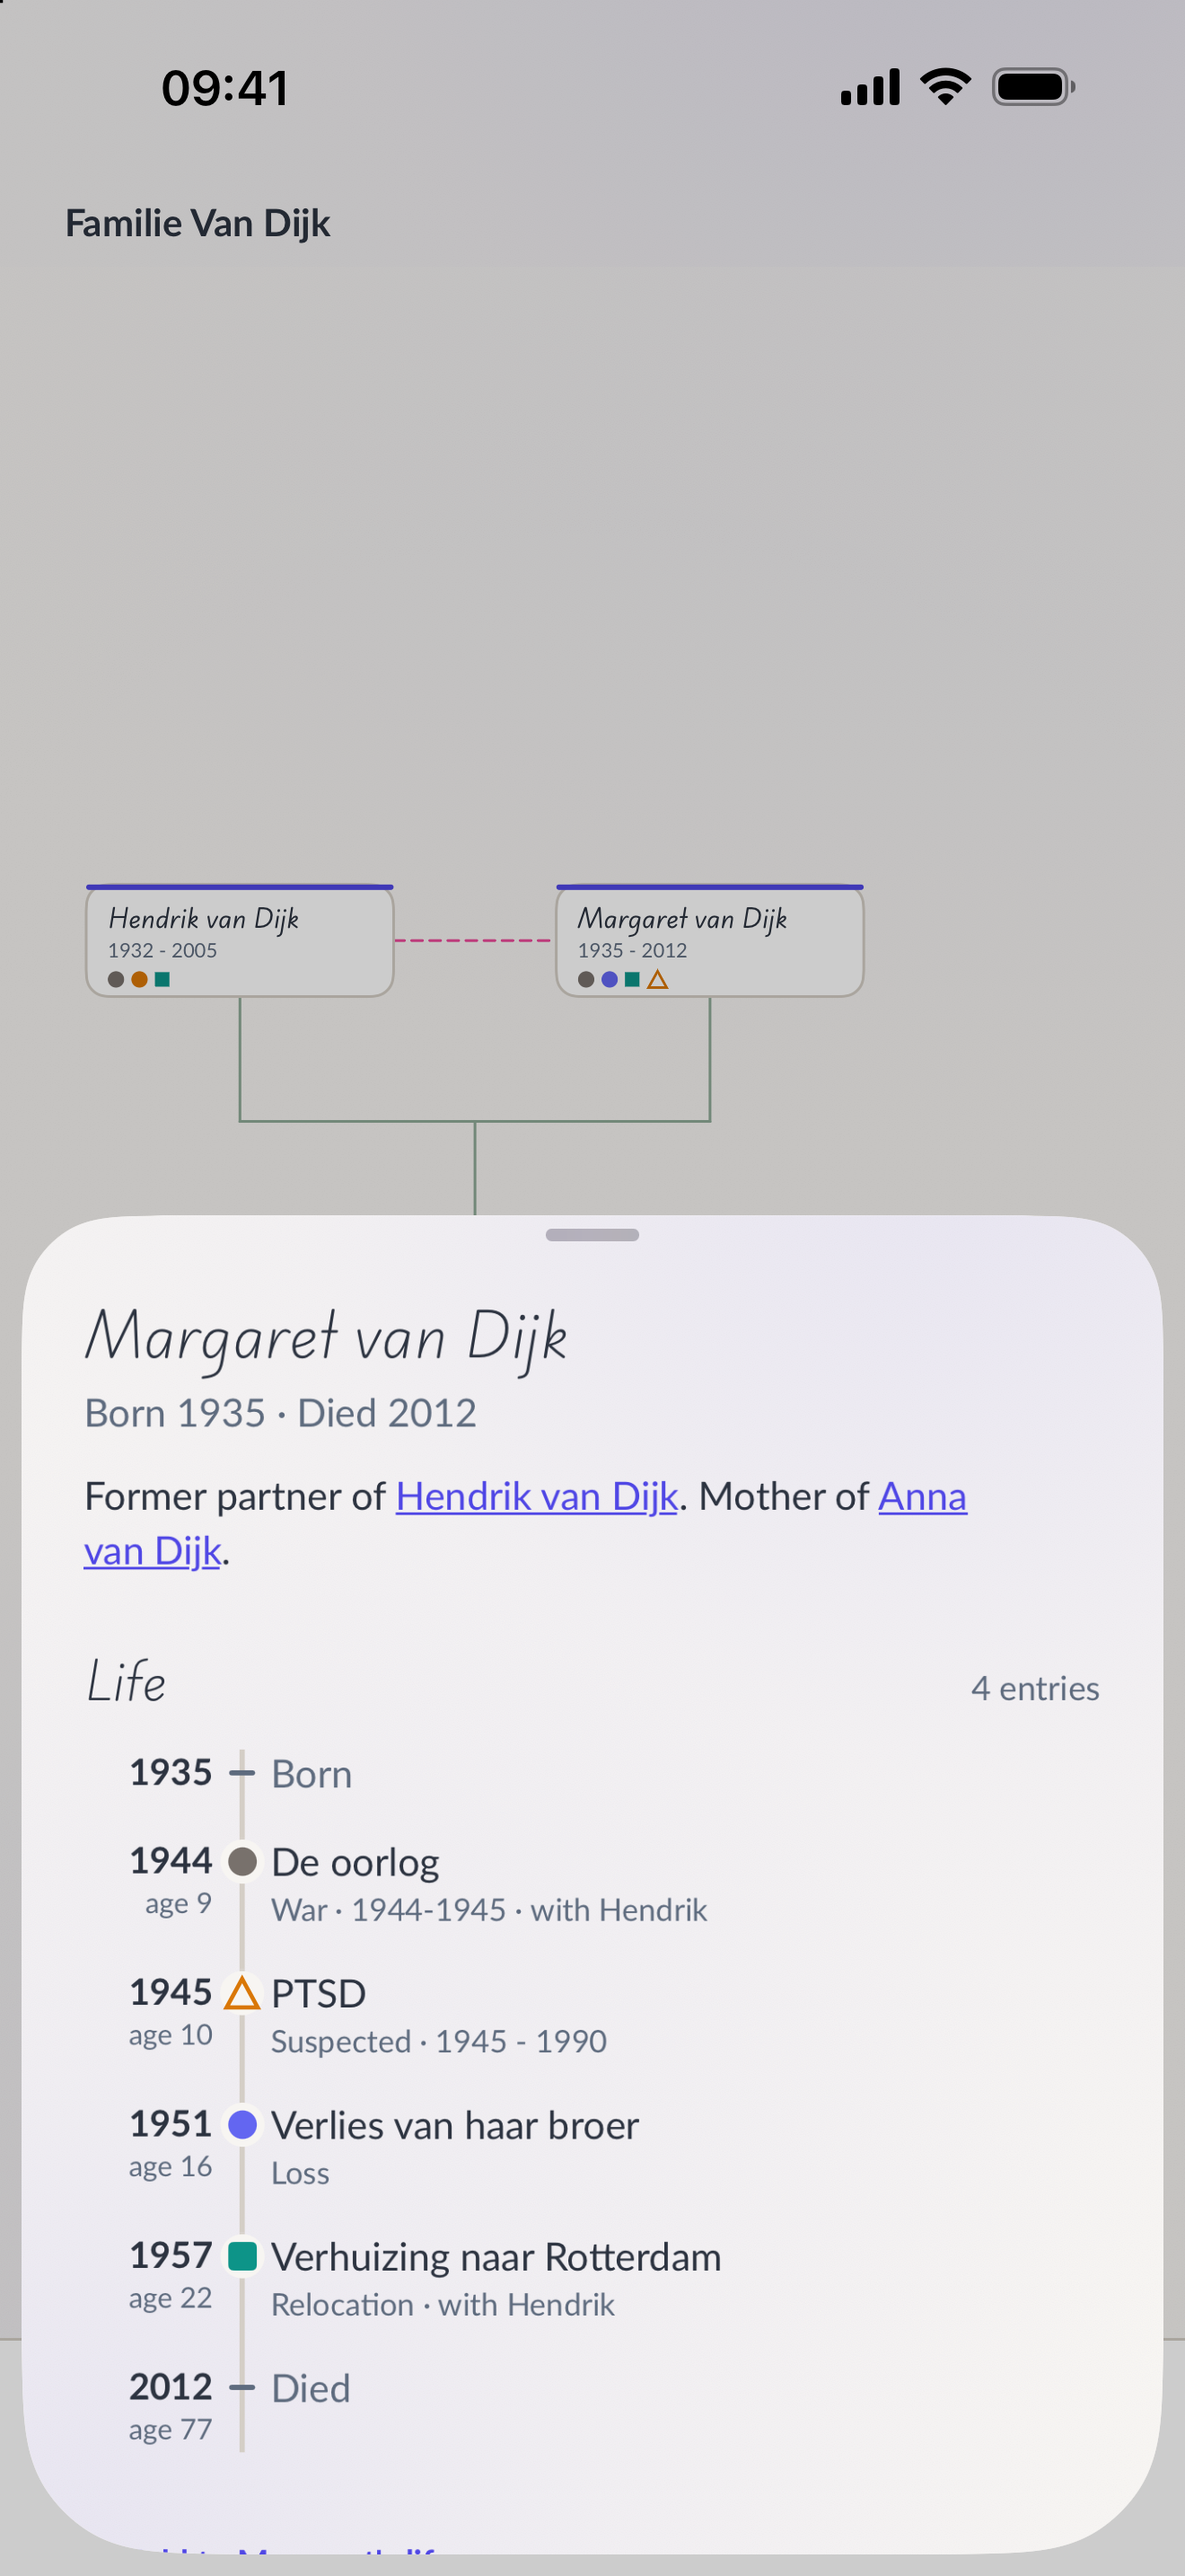
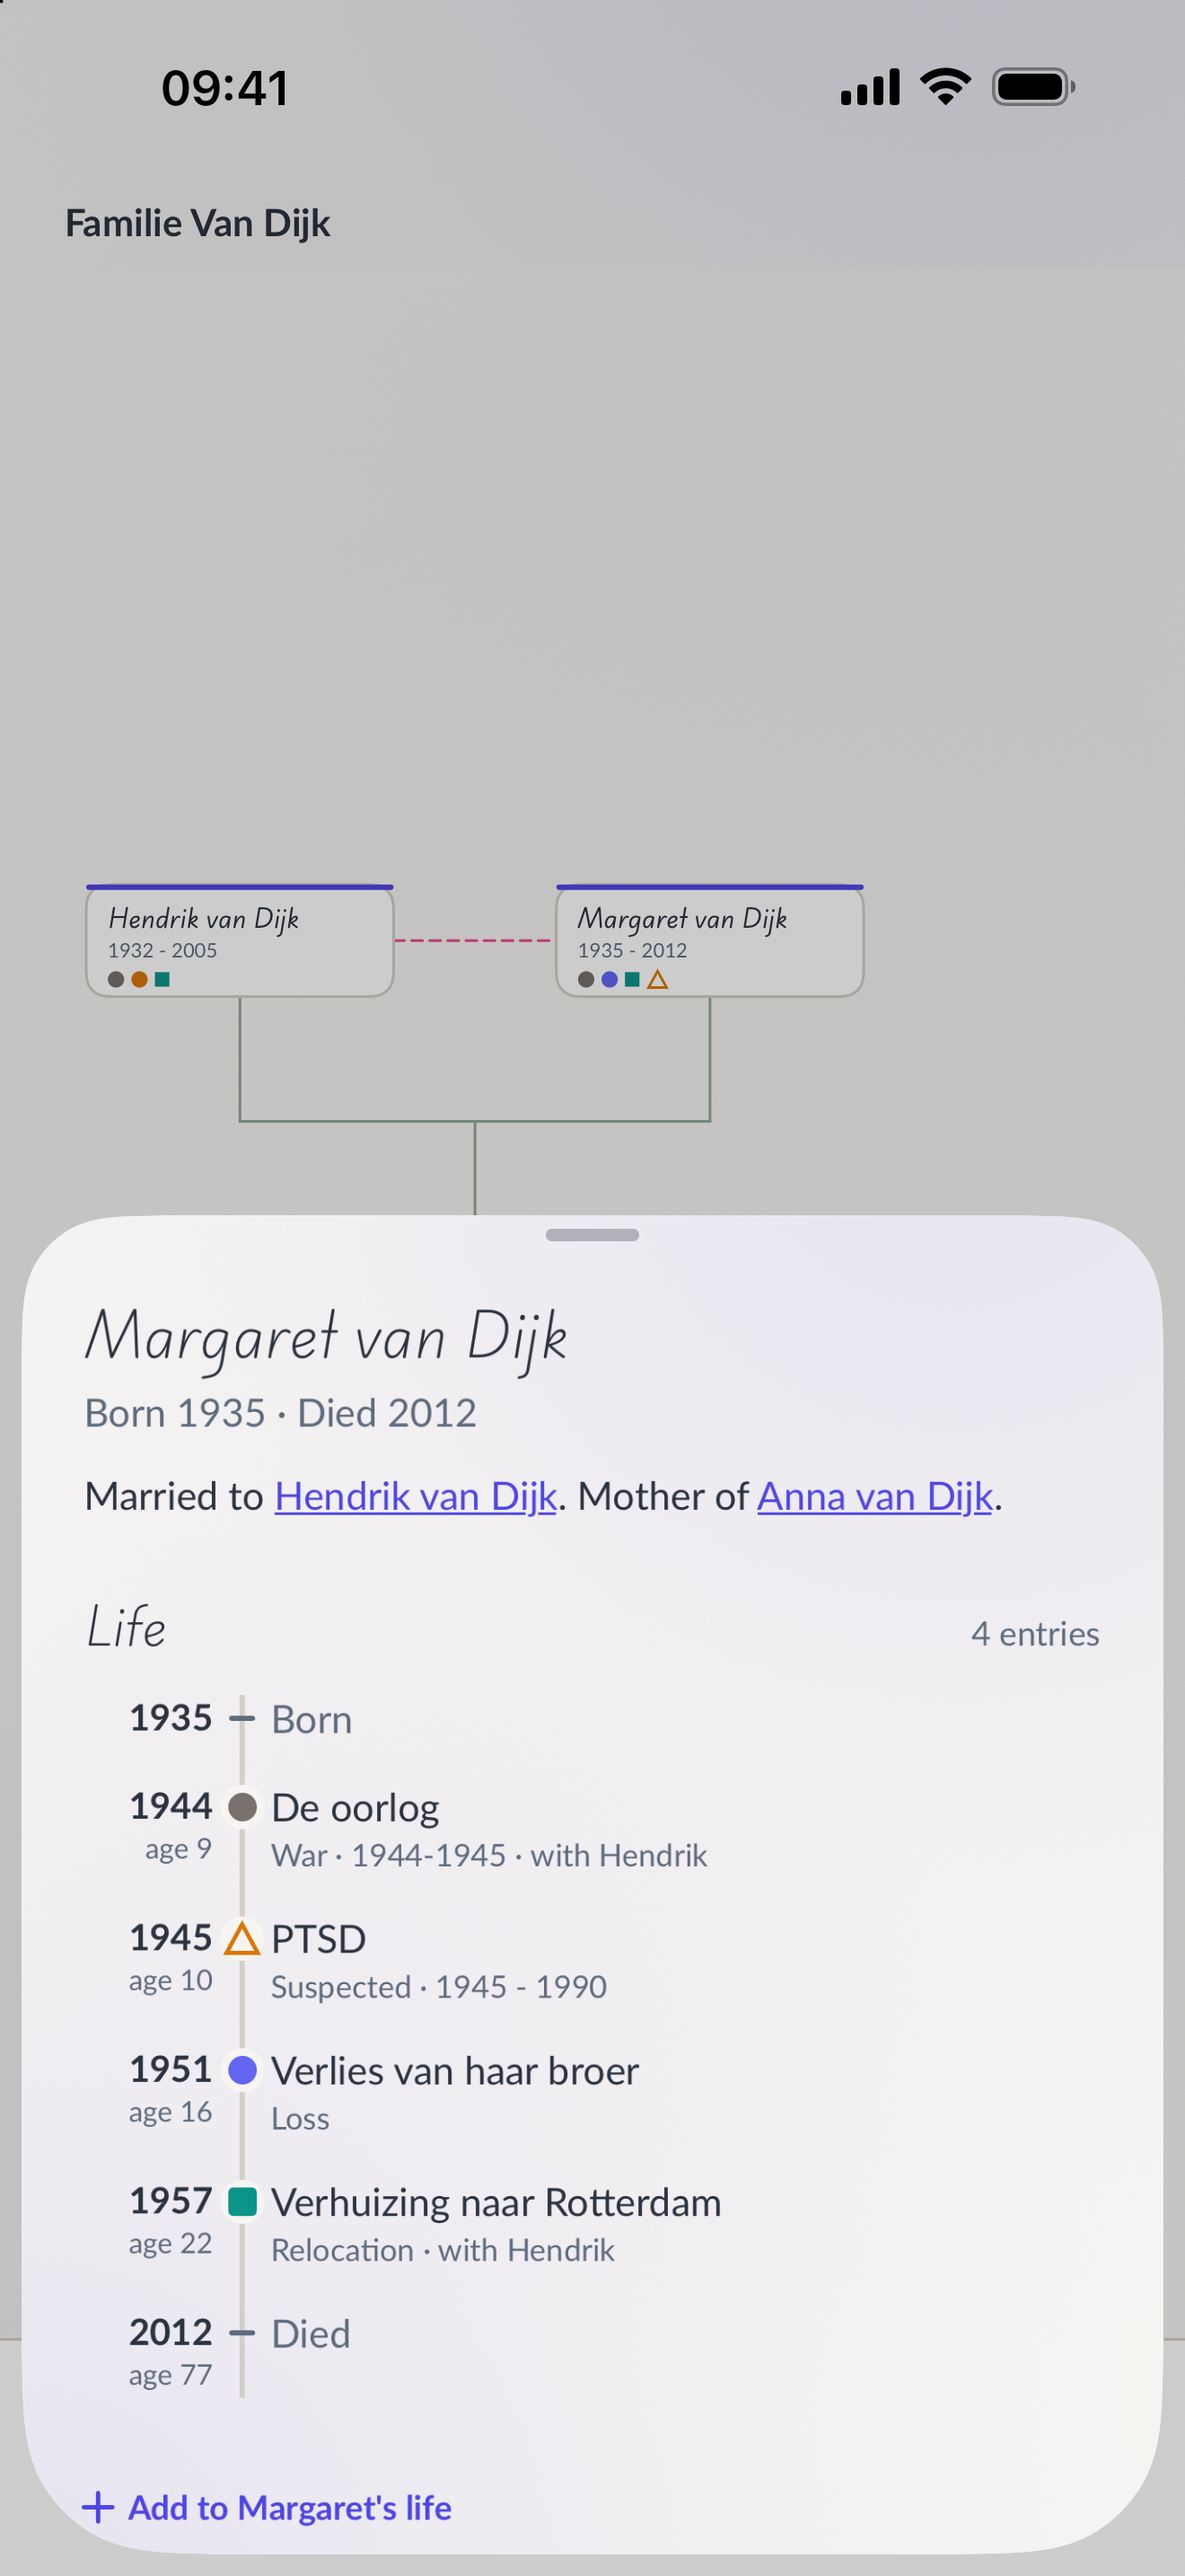
fix: a marriage death ended is not a former partnership
The person page's glance named anyone whose latest partner period had an end
year a former partner, so a widow read as "Former partner of" her late
husband. A period that ended in or after the year one of the two died now
keeps its status (married to, partner of); only a separation, a divorce, or
an end before either death reads as former. Web and iOS alike, and the App
Store person-page screenshot is recaptured with the corrected sentence.

Claude-Session: https://claude.ai/code/session_01SmPpZwaReEVVWJgvhqsMvA

Changed region(s): [[0.0621, 0.5586, 0.8386, 0.931], [0.1242, 0.962, 0.3727, 0.993], [0.8697, 0.6206, 0.9008, 0.6827]]

diff --git a/mobile/ios/Sources/Lifeline.swift b/mobile/ios/Sources/Lifeline.swift
@@ -141,21 +141,30 @@ enum Glance {
     private static let parentTypes: Set<String> = ["biological_parent", "co_parent", "adoptive_parent"]
     private static let siblingTypes: Set<String> = ["biological_sibling", "step_sibling", "half_sibling"]
 
-    private static func partnerRole(_ edge: TreeEdge) -> GlanceRole {
+    private static func partnerRole(_ edge: TreeEdge, deathYearOf: (String) -> Int?) -> GlanceRole {
         guard let latest = edge.periods.last else { return .partnerOf }
-        if latest.end != nil || latest.status == "separated" || latest.status == "divorced" {
+        if latest.status == "separated" || latest.status == "divorced" { return .formerPartnerOf }
+        if let end = latest.end, !endedByDeath(edge, endYear: end, deathYearOf: deathYearOf) {
             return .formerPartnerOf
         }
         return latest.status == "married" ? .marriedTo : .partnerOf
     }
 
+    /// A period that ended when one of the partners died is not a separation:
+    /// a marriage death ended still reads "married to".
+    private static func endedByDeath(_ edge: TreeEdge, endYear: Int, deathYearOf: (String) -> Int?) -> Bool {
+        [edge.sourceId, edge.targetId].contains { id in
+            deathYearOf(id).map { $0 <= endYear } ?? false
+        }
+    }
+
     /// The role the other person plays, phrased from `personId`'s side.
-    private static func role(_ edge: TreeEdge, for personId: String) -> GlanceRole {
+    private static func role(_ edge: TreeEdge, for personId: String, deathYearOf: (String) -> Int?) -> GlanceRole {
         let isSource = edge.sourceId == personId
         if parentTypes.contains(edge.type) { return isSource ? .parentOf : .childOf }
         switch edge.type {
         case "step_parent": return isSource ? .stepParentOf : .stepChildOf
-        case "partner": return partnerRole(edge)
+        case "partner": return partnerRole(edge, deathYearOf: deathYearOf)
         case "half_sibling": return .halfSiblingOf
         case "step_sibling": return .stepSiblingOf
         case "friend": return .friendOf
@@ -184,13 +193,16 @@ enum Glance {
     }
 
     /// A person's relationships and inferred siblings grouped into glance roles, in reading order.
-    static func groups(for personId: String, edges: [TreeEdge]) -> [GlanceGroup] {
+    /// `deathYearOf` tells a partnership death ended from one the couple ended.
+    static func groups(
+        for personId: String, edges: [TreeEdge], deathYearOf: (String) -> Int? = { _ in nil }
+    ) -> [GlanceGroup] {
         var byRole: [GlanceRole: [String]] = [:]
         func add(_ role: GlanceRole, _ other: String) {
             if !(byRole[role]?.contains(other) ?? false) { byRole[role, default: []].append(other) }
         }
         for edge in edges where edge.sourceId == personId || edge.targetId == personId {
-            add(role(edge, for: personId), edge.sourceId == personId ? edge.targetId : edge.sourceId)
+            add(role(edge, for: personId, deathYearOf: deathYearOf), edge.sourceId == personId ? edge.targetId : edge.sourceId)
         }
         for sibling in inferredSiblings(edges) where sibling.a == personId || sibling.b == personId {
             add(sibling.half ? .halfSiblingOf : .siblingOf, sibling.a == personId ? sibling.b : sibling.a)

diff --git a/frontend/src/lib/personGlance.ts b/frontend/src/lib/personGlance.ts
@@ -45,25 +45,50 @@ const PARENT_TYPES = new Set<RelationshipType>([
   RelationshipType.AdoptiveParent,
 ]);
 
-function partnerRole(rel: DecryptedRelationship): GlanceRole {
+type DeathYearOf = (personId: string) => number | null | undefined;
+
+/**
+ * A period that ended when one of the partners died is not a separation: the
+ * glance keeps "married to" for a marriage death ended, and only says
+ * "former partner" when the couple themselves ended it.
+ */
+function endedByDeath(
+  rel: DecryptedRelationship,
+  endYear: number,
+  deathYearOf: DeathYearOf,
+): boolean {
+  return [rel.source_person_id, rel.target_person_id].some((id) => {
+    const died = deathYearOf(id);
+    return died != null && died <= endYear;
+  });
+}
+
+function partnerRole(rel: DecryptedRelationship, deathYearOf: DeathYearOf): GlanceRole {
   if (rel.periods.length === 0) return "partnerOf";
   const latest = rel.periods.toSorted((a, b) => a.start_year - b.start_year).at(-1);
-  if (!latest || latest.end_year != null) return "formerPartnerOf";
+  if (!latest) return "formerPartnerOf";
   if (latest.status === PartnerStatus.Separated || latest.status === PartnerStatus.Divorced) {
+    return "formerPartnerOf";
+  }
+  if (latest.end_year != null && !endedByDeath(rel, latest.end_year, deathYearOf)) {
     return "formerPartnerOf";
   }
   return latest.status === PartnerStatus.Married ? "marriedTo" : "partnerOf";
 }
 
 /** The role the other person plays, phrased from `personId`'s side. */
-function roleFor(rel: DecryptedRelationship, personId: string): GlanceRole {
+function roleFor(
+  rel: DecryptedRelationship,
+  personId: string,
+  deathYearOf: DeathYearOf,
+): GlanceRole {
   const isSource = rel.source_person_id === personId;
   if (PARENT_TYPES.has(rel.type)) return isSource ? "parentOf" : "childOf";
   switch (rel.type) {
     case RelationshipType.StepParent:
       return isSource ? "stepParentOf" : "stepChildOf";
     case RelationshipType.Partner:
-      return partnerRole(rel);
+      return partnerRole(rel, deathYearOf);
     case RelationshipType.HalfSibling:
       return "halfSiblingOf";
     case RelationshipType.StepSibling:
@@ -75,11 +100,16 @@ function roleFor(rel: DecryptedRelationship, personId: string): GlanceRole {
   }
 }
 
-/** Group a person's relationships and inferred siblings into glance roles, in reading order. */
+/**
+ * Group a person's relationships and inferred siblings into glance roles, in
+ * reading order. `deathYearOf` tells a partnership death ended from one the
+ * couple ended.
+ */
 export function buildGlanceGroups(
   personId: string,
   relationships: DecryptedRelationship[],
   inferredSiblings: InferredSibling[],
+  deathYearOf: DeathYearOf = () => null,
 ): GlanceGroup[] {
   const byRole = new Map<GlanceRole, string[]>();
   const add = (role: GlanceRole, otherId: string) => {
@@ -89,7 +119,7 @@ export function buildGlanceGroups(
   };
   for (const rel of relationships) {
     const otherId = rel.source_person_id === personId ? rel.target_person_id : rel.source_person_id;
-    add(roleFor(rel, personId), otherId);
+    add(roleFor(rel, personId, deathYearOf), otherId);
   }
   for (const sib of inferredSiblings) {
     const otherId = sib.personAId === personId ? sib.personBId : sib.personAId;

diff --git a/frontend/src/lib/personGlance.unit.test.ts b/frontend/src/lib/personGlance.unit.test.ts
@@ -86,6 +86,34 @@ describe("buildGlanceGroups", () => {
     ]);
   });
 
+  it("keeps a partnership that ended in a death, and still names a separation", () => {
+    const died: Record<string, number> = { late: 2005, widower: 1999 };
+    const groups = buildGlanceGroups(
+      "me",
+      [
+        rel("r1", RelationshipType.Partner, "me", "late", [
+          { start_year: 1956, end_year: 2005, status: PartnerStatus.Married },
+        ]),
+        rel("r2", RelationshipType.Partner, "widower", "me", [
+          { start_year: 1990, end_year: 1999, status: PartnerStatus.Together },
+        ]),
+        rel("r3", RelationshipType.Partner, "me", "ex", [
+          { start_year: 1950, end_year: 1954, status: PartnerStatus.Married },
+        ]),
+        rel("r4", RelationshipType.Partner, "me", "late-ex", [
+          { start_year: 1960, end_year: 2001, status: PartnerStatus.Divorced },
+        ]),
+      ],
+      [],
+      (id) => died[id] ?? (id === "ex" ? 2010 : id === "late-ex" ? 2001 : null),
+    );
+    expect(groups).toEqual([
+      { role: "marriedTo", personIds: ["late"] },
+      { role: "partnerOf", personIds: ["widower"] },
+      { role: "formerPartnerOf", personIds: ["ex", "late-ex"] },
+    ]);
+  });
+
   it("merges explicit and inferred siblings without duplicates", () => {
     const inferred: InferredSibling[] = [
       { personAId: "me", personBId: "bro", type: "full_sibling", sharedParentIds: ["mum"] },

diff --git a/mobile/ios/Sources/PersonPage.swift b/mobile/ios/Sources/PersonPage.swift
@@ -112,7 +112,10 @@ struct PersonSheet: View {
 
     /// "Married to Hendrik. Mother of Pieter and Anna." Each name opens that person.
     private var glance: some View {
-        let groups = Glance.groups(for: current.id, edges: tree?.edges ?? [])
+        let persons = tree?.persons ?? []
+        let groups = Glance.groups(for: current.id, edges: tree?.edges ?? []) { id in
+            persons.first { $0.id == id }?.deathYear
+        }
         return Group {
             if groups.isEmpty {
                 Text(t("Not connected to anyone yet."))

diff --git a/frontend/src/components/tree/PersonDetailPanel.tsx b/frontend/src/components/tree/PersonDetailPanel.tsx
@@ -312,7 +312,12 @@ export function PersonDetailPanel({
   const personPrompt = personPromptText(t, promptPick.index, person.name);
 
   const years = yearsLine(person, t);
-  const glance = buildGlanceGroups(person.id, relationships, inferredSiblings);
+  const glance = buildGlanceGroups(
+    person.id,
+    relationships,
+    inferredSiblings,
+    (id) => allPersons.get(id)?.death_year,
+  );
   const personPatterns = patterns.filter((p) => p.person_ids.includes(person.id));
 
   return (
